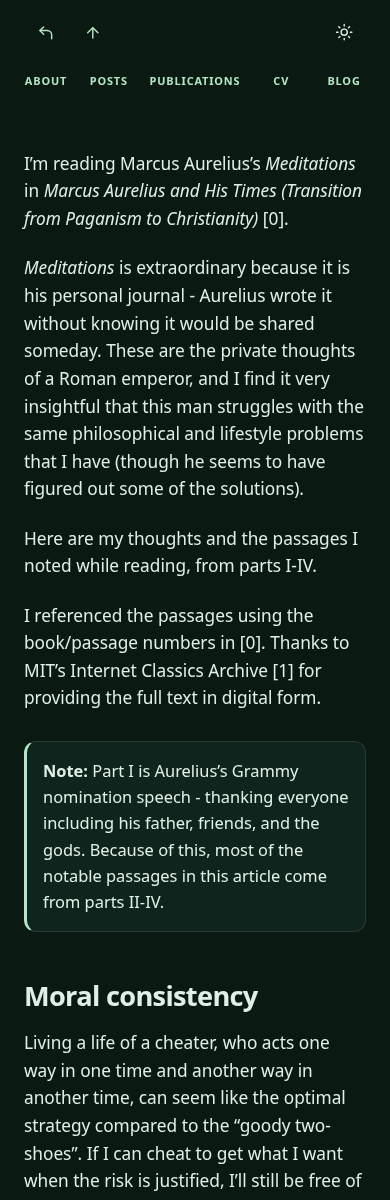
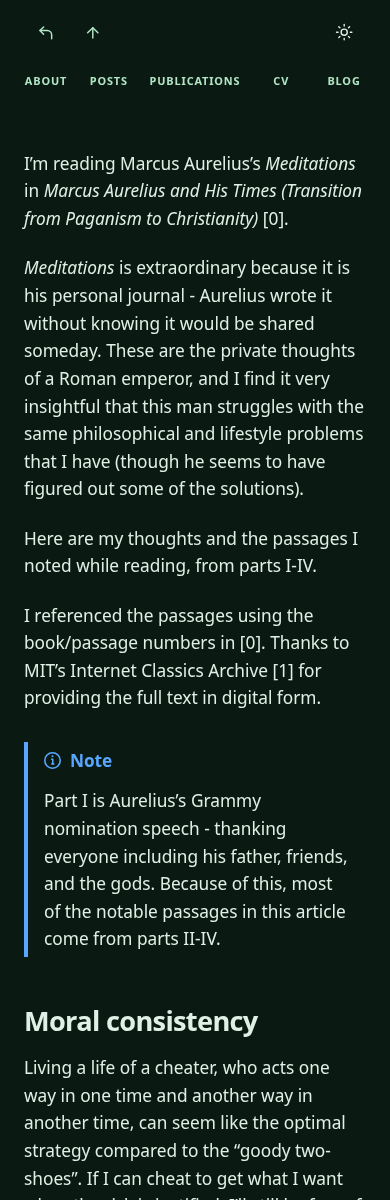
Match notes to GitHub alert styling

Changed region(s): [[0.0615, 0.6167, 0.9231, 1.0]]

diff --git a/tests/e2e/site.spec.ts b/tests/e2e/site.spec.ts
@@ -396,8 +396,12 @@ for (const width of [390, 1440]) {
       const body = page.locator(".body");
       await expect(body).not.toContainText("{: .notice");
       await expect(body.locator("aside.notice--info")).toHaveCount(2);
+      await expect(body.locator("aside .notice-title")).toHaveText([
+        "Note",
+        "Note",
+      ]);
       await expect(body.locator("aside.notice--info").first()).toContainText(
-        "Note: Part I",
+        "Part I",
       );
       await expect(body.locator("aside em")).toHaveText(
         "The Subtle Art of Not Giving a Fuck",
@@ -414,15 +418,21 @@ for (const width of [390, 1440]) {
           quoteBorder: parseFloat(quote.borderInlineStartWidth),
           quoteInset: parseFloat(quote.paddingInlineStart),
           listMarker: list.listStyleType,
-          noteBackground: note.backgroundColor,
-          pageBackground: getComputedStyle(document.body).backgroundColor,
+          noteRadius: note.borderRadius,
+          noteBorder: parseFloat(note.borderInlineStartWidth),
+          noteIcon: getComputedStyle(
+            element.querySelector(".notice-title")!,
+            "::before",
+          ).maskImage,
         };
       });
       expect(styles.paragraphGap).toBeGreaterThanOrEqual(20);
       expect(styles.quoteBorder).toBeGreaterThan(0);
       expect(styles.quoteInset).toBeGreaterThanOrEqual(16);
       expect(styles.listMarker).toBe("disc");
-      expect(styles.noteBackground).not.toBe(styles.pageBackground);
+      expect(styles.noteRadius).toBe("0px");
+      expect(styles.noteBorder).toBe(4);
+      expect(styles.noteIcon).not.toBe("none");
       await expectNoPageOverflow(page);
     });
   }

diff --git a/docs/review/meditations-formatting/README.md b/docs/review/meditations-formatting/README.md
@@ -4,8 +4,8 @@ Chromium screenshots of the same article, captured at 1440 × 1800 with a light
 color scheme. The comparison views begin at the opening paragraph and show paragraph spacing,
 the first note, and quotations.
 
-| Before migration                          | After migration                         | Final               |
-| ----------------------------------------- | --------------------------------------- | ------------------- |
+| Before migration                           | After migration                         | Final               |
+| ------------------------------------------ | --------------------------------------- | ------------------- |
 | ![Before migration](before-migration.webp) | ![After migration](after-migration.png) | ![Final](final.png) |
 
 - **Before migration:** rebuilt the original Jekyll source at
@@ -24,7 +24,8 @@ Additional final views at 390 × 1200:
 
 The prose styles restore paragraph spacing, quote borders and inset serif type,
 and list markers throughout `.body` content. The article's two Jekyll attribute
-annotations are replaced by semantic asides with theme-aware callout styling.
+annotations are replaced by semantic asides with GitHub-style square corners, a blue left rule, and an
+info icon beside a separate Note heading in both themes.
 Its wording is preserved; the longer aside is split into two paragraphs.
 
 Validation: Prettier, ESLint, Astro Check, Markdownlint, a static build, and all

diff --git a/src/content/posts/meditations-1-thru-4.md b/src/content/posts/meditations-1-thru-4.md
@@ -28,7 +28,9 @@ Thanks to MIT's Internet Classics Archive [1] for providing the full text in dig
 
 <aside class="notice--info" aria-label="Reading note">
 
-**Note:** Part I is Aurelius's Grammy nomination speech - thanking everyone including his father, friends, and the gods.
+<p class="notice-title">Note</p>
+
+Part I is Aurelius's Grammy nomination speech - thanking everyone including his father, friends, and the gods.
 Because of this, most of the notable passages in this article come from parts II-IV.
 
 </aside>
@@ -92,6 +94,8 @@ Things only happen as they are meant to happen.
 Things cannot affect the soul; my opinion that it has hurt me is the thing which "does violence to the soul".
 
 <aside class="notice--info" aria-label="Related reading">
+
+<p class="notice-title">Note</p>
 
 **Interestingly,** as the same time I was reading this, my wife also read _The Subtle Art of Not Giving a Fuck_ by Mark Manson [2].
 As she shared what she got from the book, we realized that in many ways, that book argues for a modern (and spicier-worded) version of the Stoic philosophy. Instead of chasing pleasure, one should chase happiness and by doing so, cease to give a fuck about things that don't matter.
